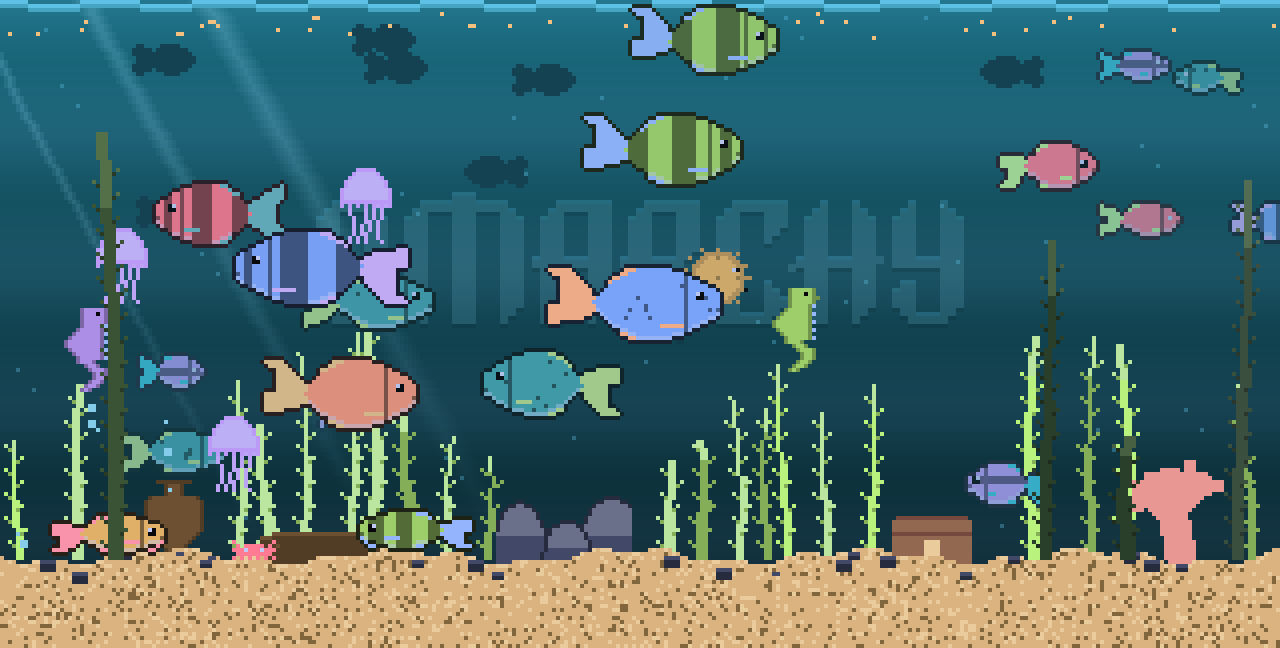
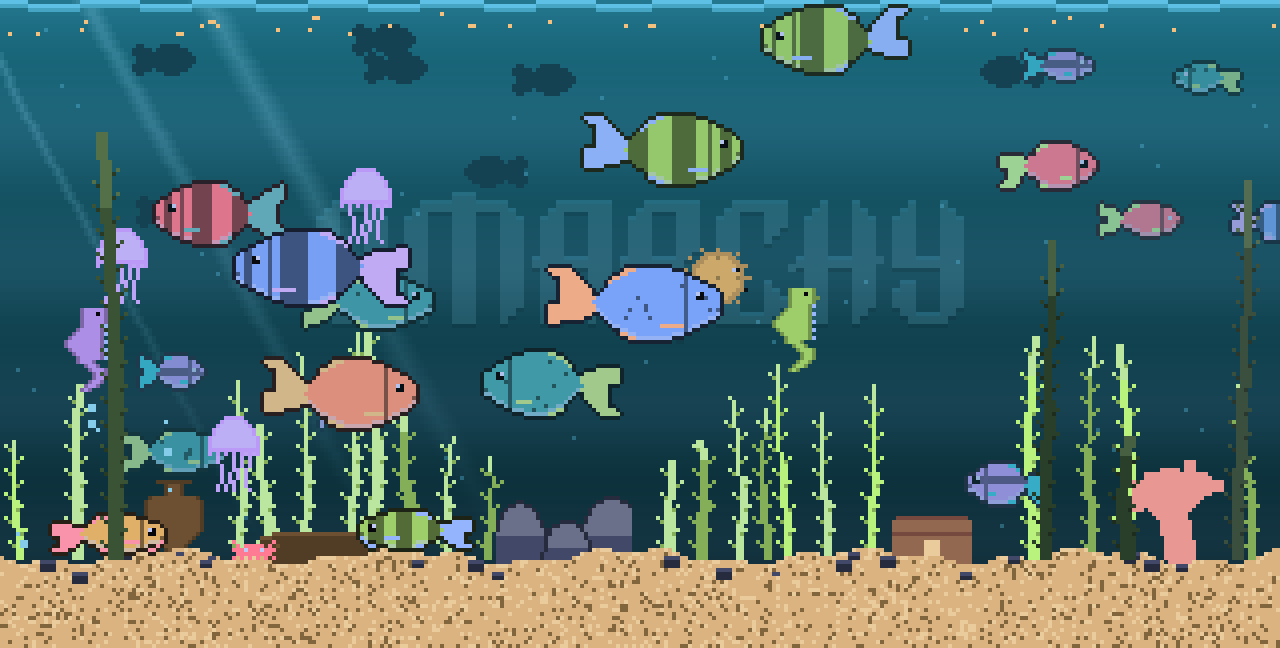
Fish eat without spinning on the spot
A feeding fish picked the nearest crumb afresh every frame and turned to
face whichever side of it that crumb was on. With food drifting and
several crumbs at similar range, that meant flipping direction almost
every frame -- the worst fish turned 142 times in six seconds, which
looked like a fit rather than a meal.

It commits to one crumb now and keeps it until it is eaten or well out of
range, swims at it without overshooting, and turns about only for food
that is genuinely behind it and at most twice a second. Same seed, same
six seconds: 309 turns across the tank became 6, and the worst fish went
from 142 to 1. A feed still clears in about fifteen seconds.

The preview and the video are redone with it, and a check keeps the
turning down.

Changed region(s): [[0.4688, 0.0, 0.7188, 0.1235], [0.7812, 0.0617, 0.9375, 0.1235]]

diff --git a/tools/test.py b/tools/test.py
@@ -368,6 +368,39 @@ check("one changed pixel sends one row", 0 < moved.text.count("\u2580") <= 160 *
       "%d cells" % moved.text.count("\u2580"))
 ft.forget_frame()
 
+# -- feeding looks like eating, not like spinning ---------------------------
+
+daylight = Opts()
+daylight.night = 0.0          # after dark everything moves at half speed
+random.seed(4)
+tank = ft.Tank(320, 81, daylight)
+swimmers = [a for a in tank.actors if isinstance(a, ft.Fish)]
+now = 1000.0
+tank.feed(now)
+crumbs = len(tank.flakes)
+turns = {id(f): 0 for f in swimmers}
+facing = {id(f): f.dir for f in swimmers}
+for _ in range(24 * 6):
+    now += 1 / 24.0
+    tank.update(1 / 24.0, now)
+    for fish in swimmers:
+        if fish.dir != facing[id(fish)]:
+            turns[id(fish)] += 1
+            facing[id(fish)] = fish.dir
+worst = max(turns.values())
+check("a feeding fish does not spin on the spot", worst <= 12,
+      "%d turns in six seconds" % worst)
+check("fish commit to one crumb at a time",
+      all(f.target is None or f.target in tank.flakes for f in swimmers))
+check("and the food does get eaten", len(tank.flakes) < crumbs,
+      "%d of %d left" % (len(tank.flakes), crumbs))
+
+for _ in range(24 * 12):
+    now += 1 / 24.0
+    tank.update(1 / 24.0, now)
+check("a feed is finished inside twenty seconds", not tank.flakes,
+      "%d left" % len(tank.flakes))
+
 # -- the predator, and the hints ---------------------------------------------
 
 random.seed(8)
